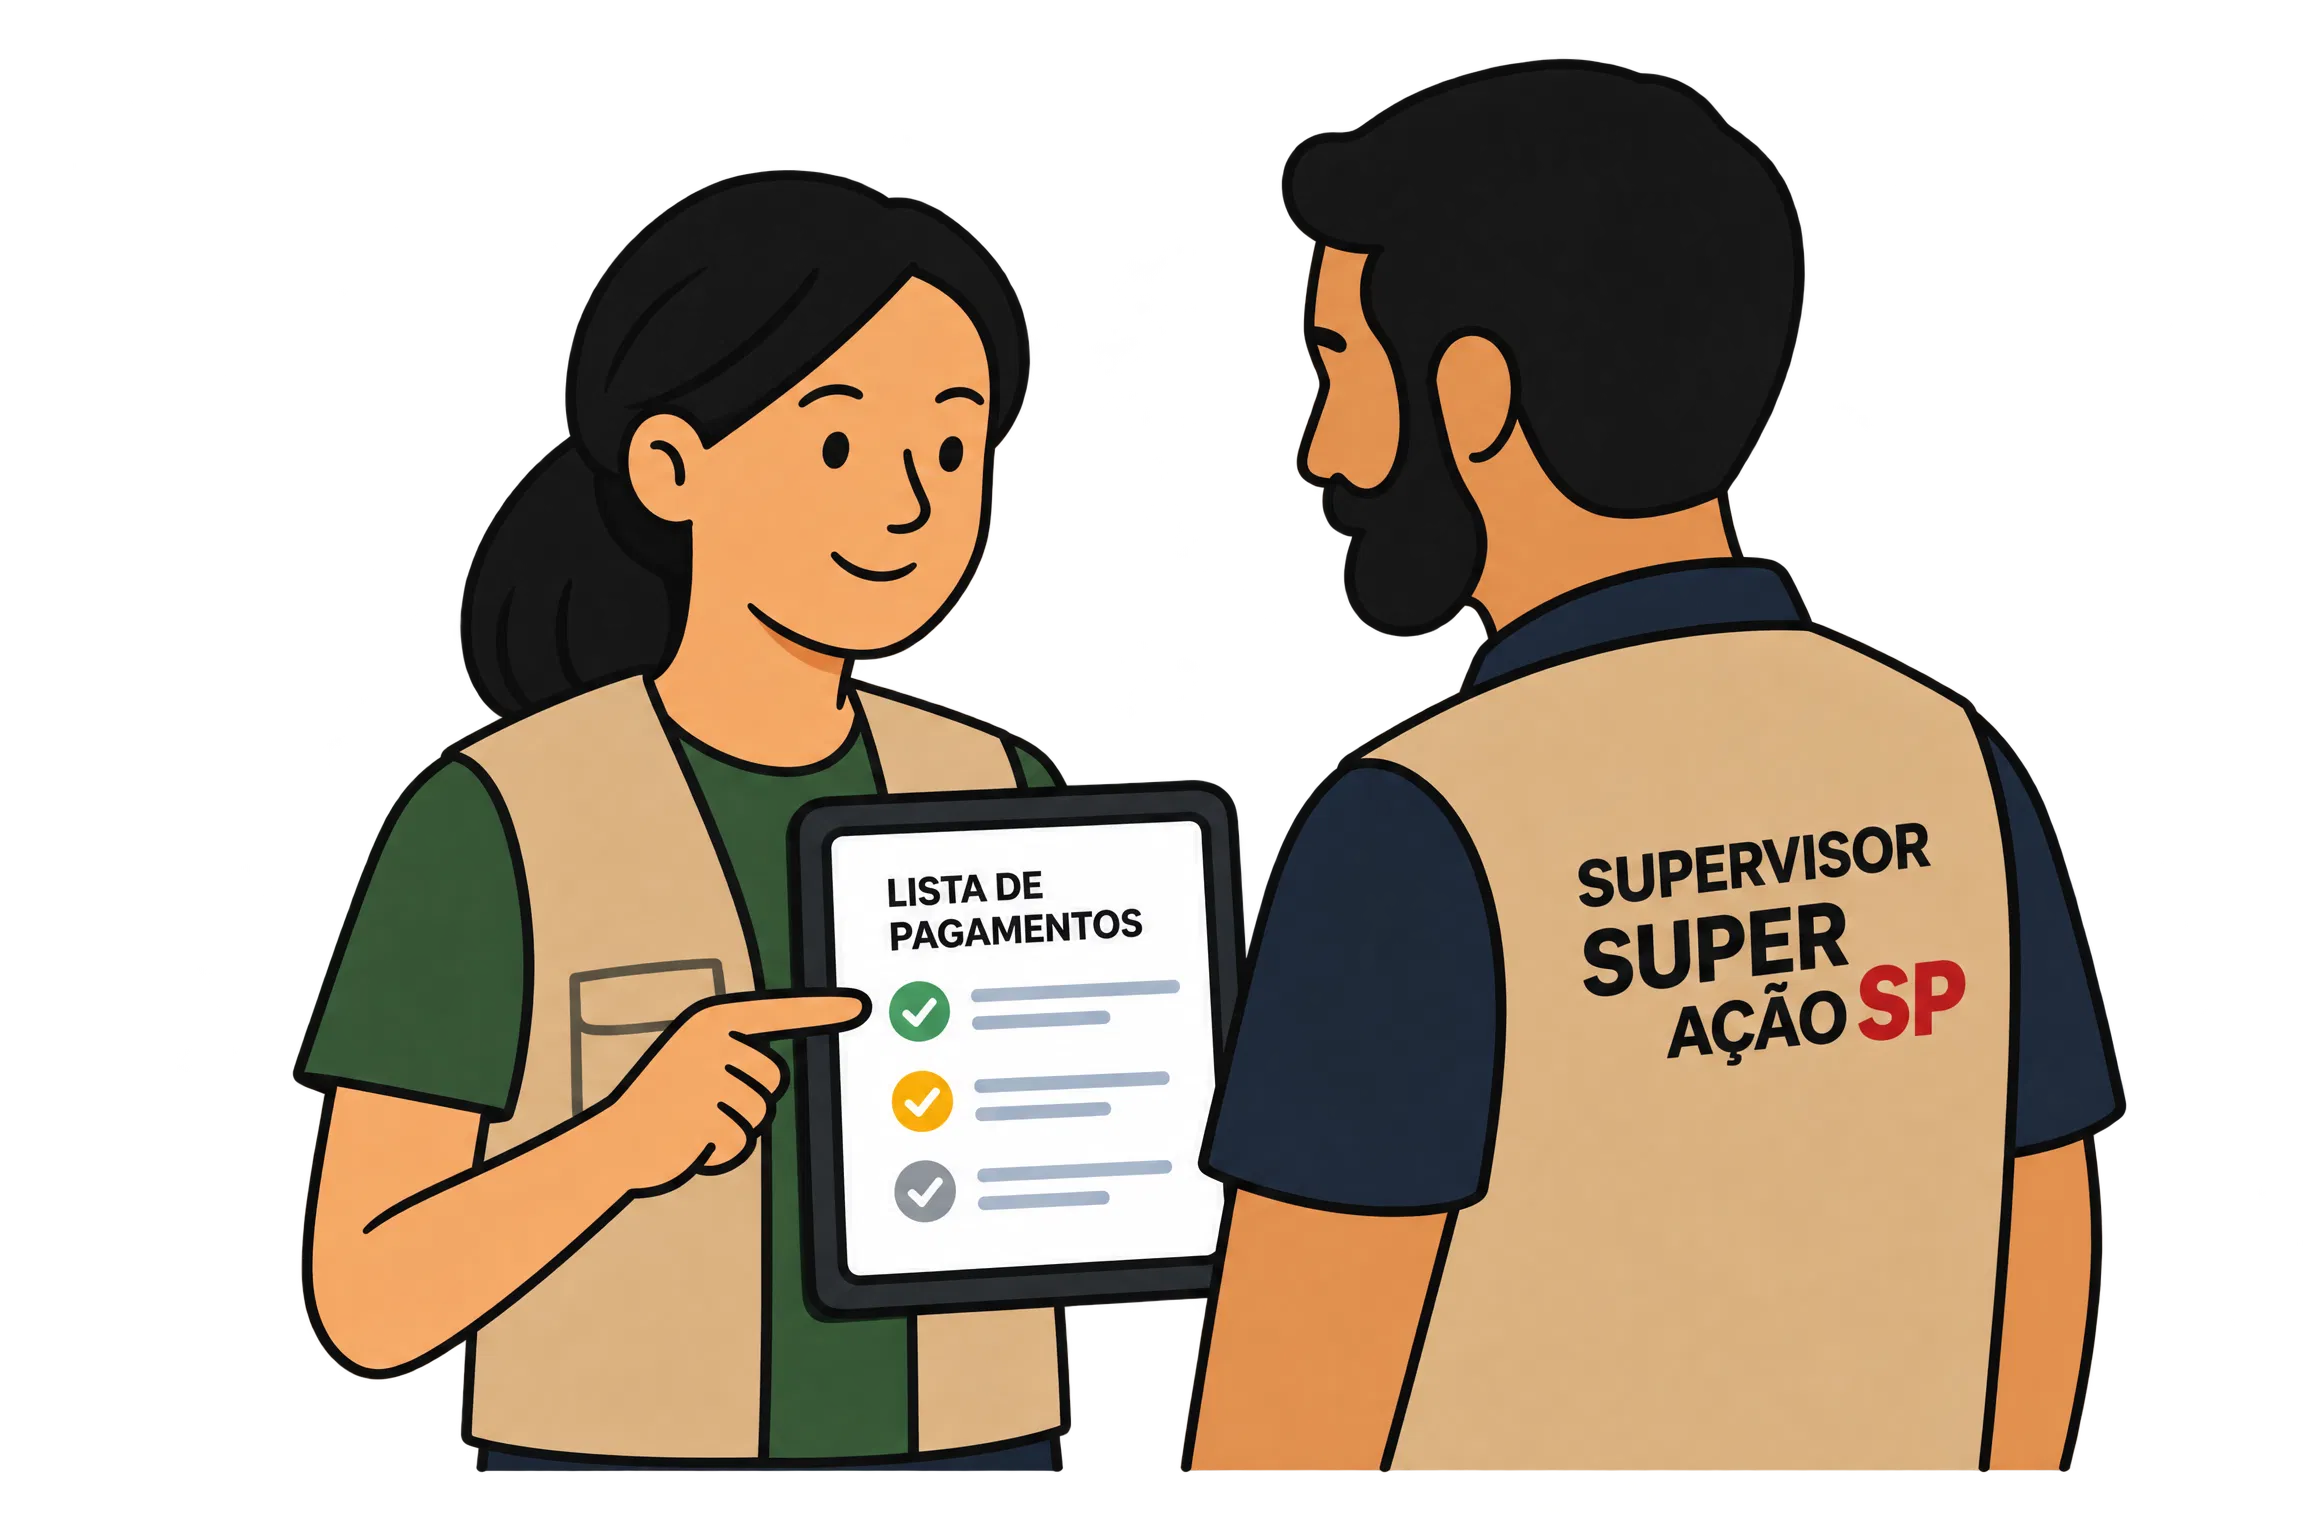
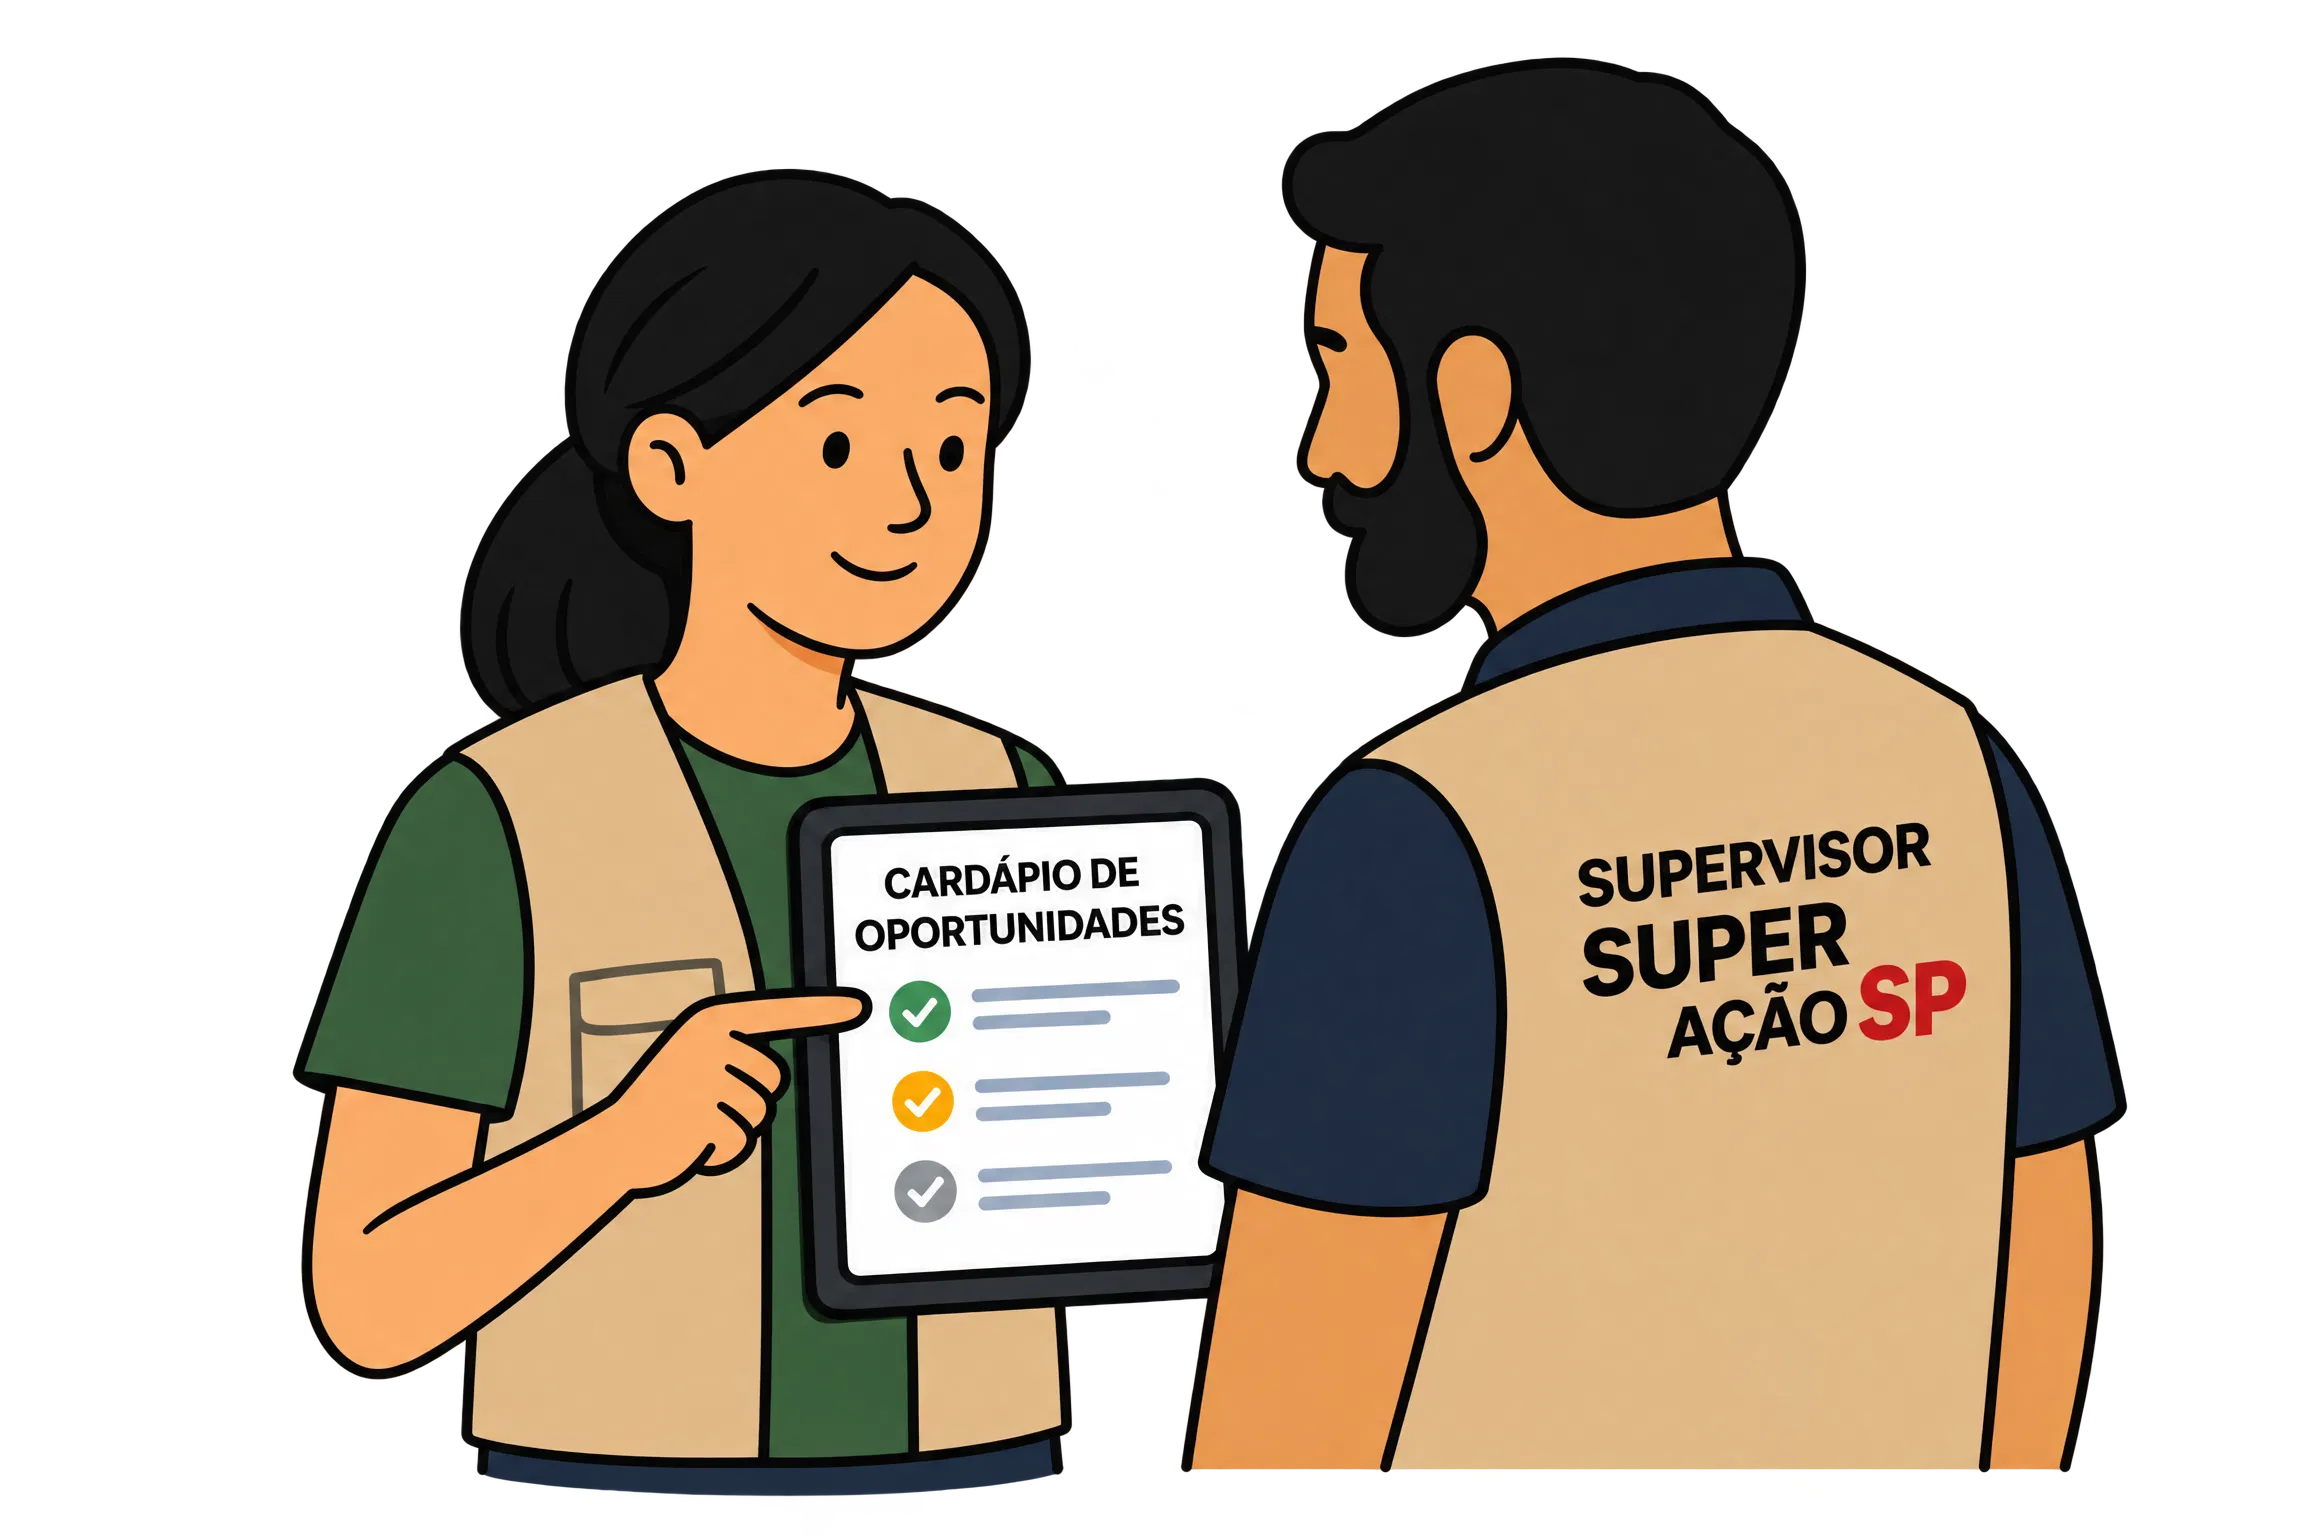
Capa: nova ilustração (cardápio de oportunidades) e texto alternativo

Changed region(s): [[0.2188, 0.9375, 0.4688, 1.0], [0.375, 0.5312, 0.5312, 0.625], [0.8125, 0.5312, 0.8438, 0.5625]]

diff --git a/index.html b/index.html
@@ -59,7 +59,7 @@
       <h1>Encontre <em>cursos</em> e <em>vagas de emprego</em> na sua cidade</h1>
       <p class="lead">Busque o seu município, veja no mapa onde estão os cursos e serviços e descubra oportunidades de trabalho que combinam com cada área de formação.</p>
       </div>
-      <img class="hero-img" src="img/agentes-supervisor.webp" width="2304" height="1536" alt="Uma agente mostra a lista de famílias no tablet para o supervisor do SuperAção SP">
+      <img class="hero-img" src="img/agentes-supervisor.webp" width="2304" height="1536" alt="Uma agente mostra o cardápio de oportunidades no tablet para o supervisor do SuperAção SP">
     </div>
 
     <!-- busca -->
